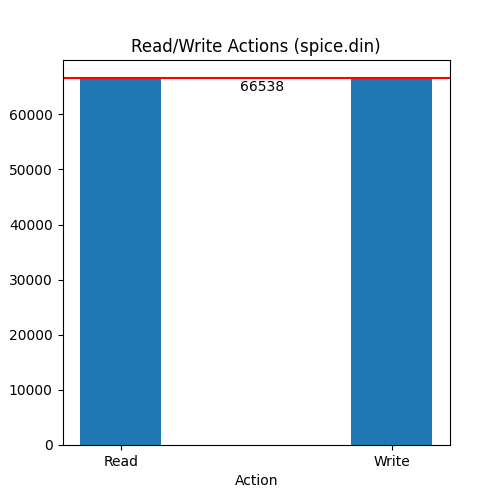
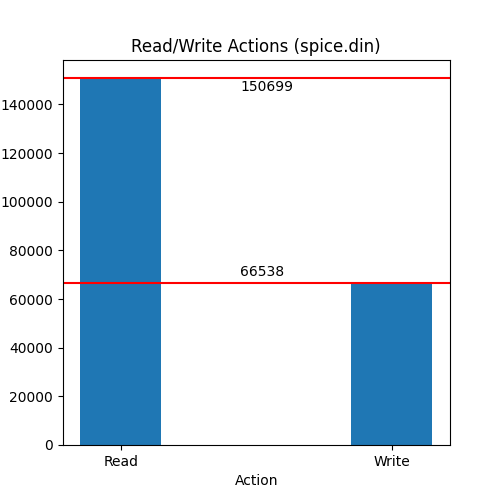
fixed typo in script resulting in wrong index value

diff --git a/scripts/spice_bar.py b/scripts/spice_bar.py
@@ -1,11 +1,11 @@
 import pandas as pd
 import matplotlib.pyplot as plt
 
-df = pd.read_fwf('spice.txt', header=None)
+df = pd.read_fwf('data/spice.txt', header=None)
 df.rename(columns={0:'Action',1:'Hex'}, inplace=True)
 
 actions = ['Read', 'Write']
-actions_values = [df['Action'].value_counts()[1], df['Action'].value_counts()[1]]
+actions_values = [df['Action'].value_counts()[0], df['Action'].value_counts()[1]]
 
 fig, ax = plt.subplots(figsize=(5,5))
 plt.bar(actions, actions_values, .3)
@@ -13,10 +13,15 @@ plt.ylabel('Occurence')
 plt.xlabel('Action')
 plt.title('Read/Write Actions (spice.din)')
 ax.axhline(66538, c='r')
+ax.axhline(150699, c='r')
 ax.annotate('66538',
+            xy=(.48, .47), xycoords='figure fraction',
+            horizontalalignment='left', verticalalignment='top',
+            fontsize=10)
+ax.annotate('150699',
             xy=(.48, .84), xycoords='figure fraction',
             horizontalalignment='left', verticalalignment='top',
             fontsize=10)
-plt.savefig('Hw1_bar_spice')
+plt.savefig('images/Hw1_bar_spice.png')
 #plt.show()
 #print(actions_values)
